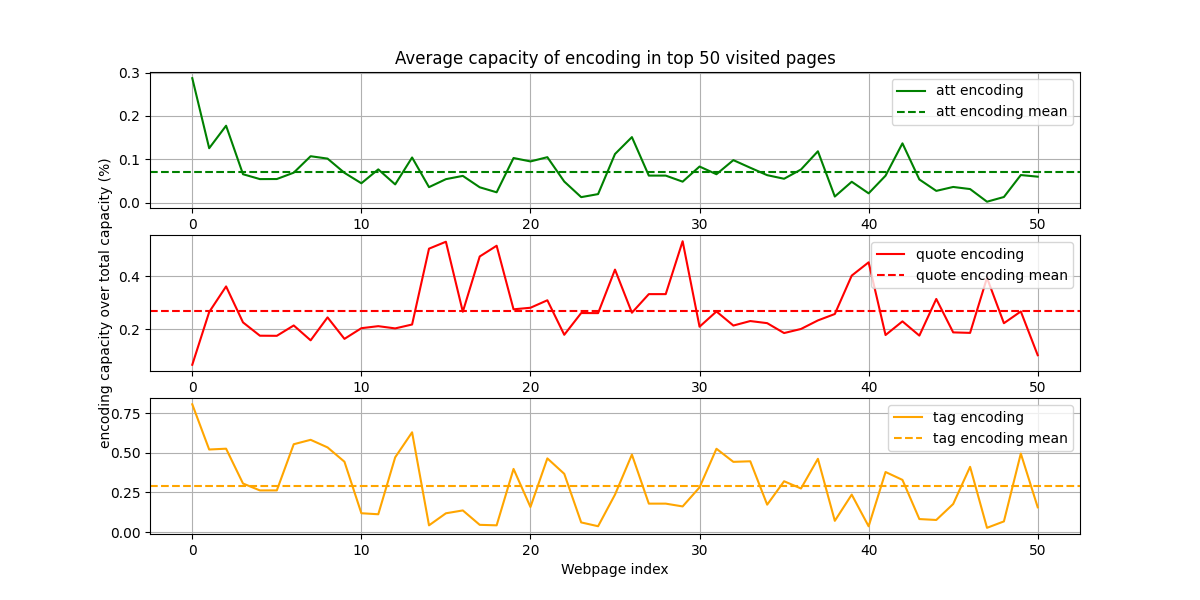
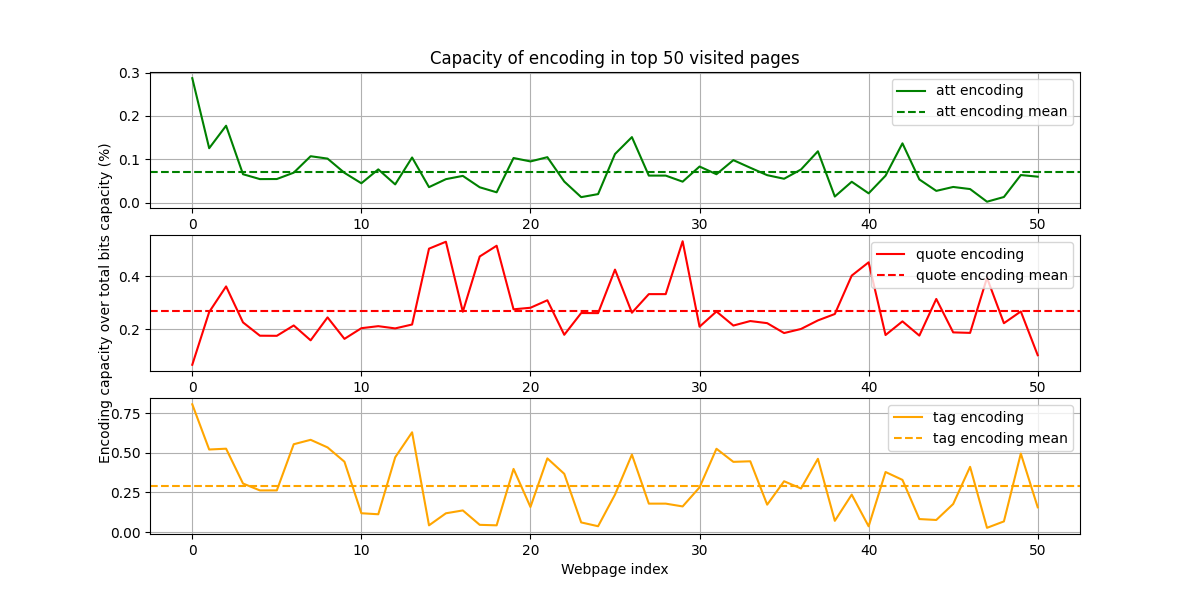
Minor changes to the result graph of statistics.py

Changed region(s): [[0.0617, 0.24, 0.0925, 0.75], [0.3392, 0.09, 0.7092, 0.12]]

diff --git a/stego/mainPage/pythonScripts/statistics.py b/stego/mainPage/pythonScripts/statistics.py
@@ -142,8 +142,8 @@ def main():
     ax[1].axhline(df.quotes_percentage.mean(), color="red", linestyle="dashed", label="quote encoding mean")
     ax[2].axhline(df.tag_percentage.mean(), color="orange", linestyle="dashed", label="tag encoding mean")
     ax[2].set_xlabel("Webpage index")
-    ax[1].set_ylabel("encoding capacity over total capacity (%)")
-    ax[0].set_title("Average capacity of encoding in top 50 visited pages")
+    ax[1].set_ylabel("Encoding capacity over total bits capacity (%)")
+    ax[0].set_title("Capacity of encoding in top 50 visited pages")
     ax[0].grid(True)
     ax[1].grid(True)
     ax[2].grid(True)
